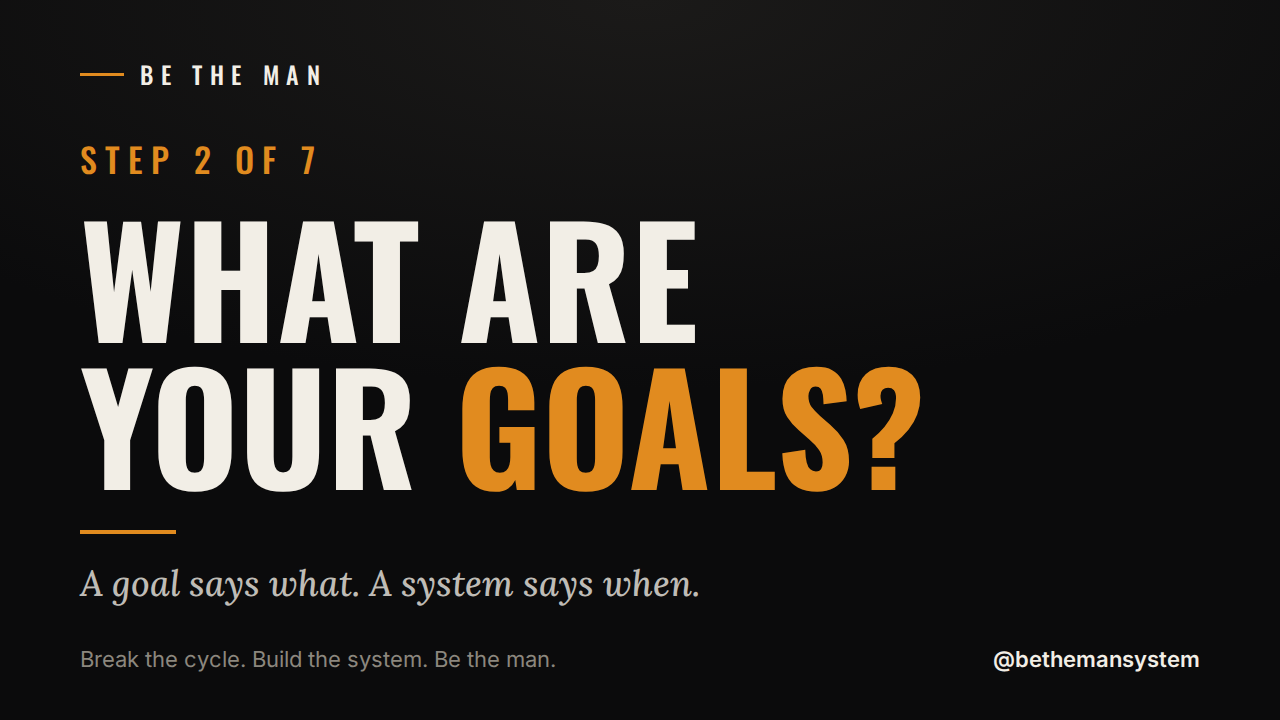
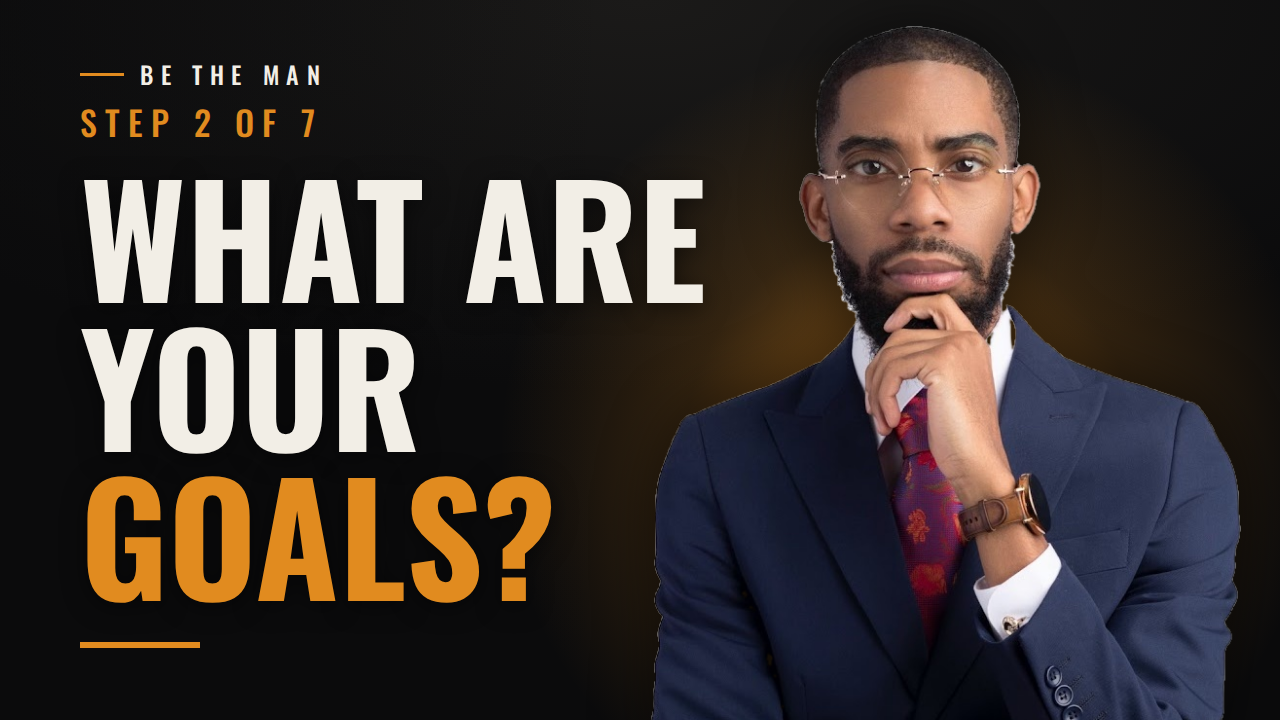
Add portrait to YouTube Step 2 thumbnail
Cut the thinking-pose photo out of its white background and place it
right of the headline over an amber glow; drop the small subtitle and
footer so the thumbnail reads at small sizes.

Claude-Session: https://claude.ai/code/session_01RwrZ13uXv7WXcEAUfWQJzd

diff --git a/instagram/YOUTUBE-STEP-2.md b/instagram/YOUTUBE-STEP-2.md
@@ -1,6 +1,6 @@
 # YouTube: Step 2 video
 
-**Thumbnail:** `posts/out/youtube-step-2-thumbnail.png` (1280×720). Edit and re-render with `node posts/youtube-thumb.mjs`.
+**Thumbnail:** `posts/out/youtube-step-2-thumbnail.png` (1280×720). Your photo is cut out at `posts/photos/cut-thinking.png` (original: `portrait-thinking.jpg`; the laughing shot is saved as `portrait-laughing.jpg`). Edit and re-render with `node posts/youtube-thumb.mjs`.
 
 ## Title options
 
